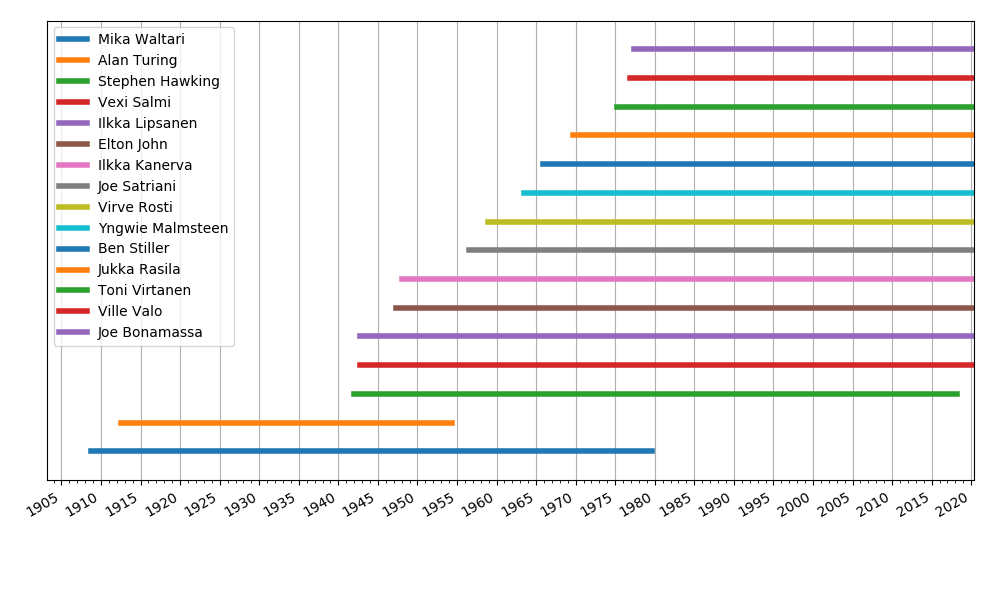
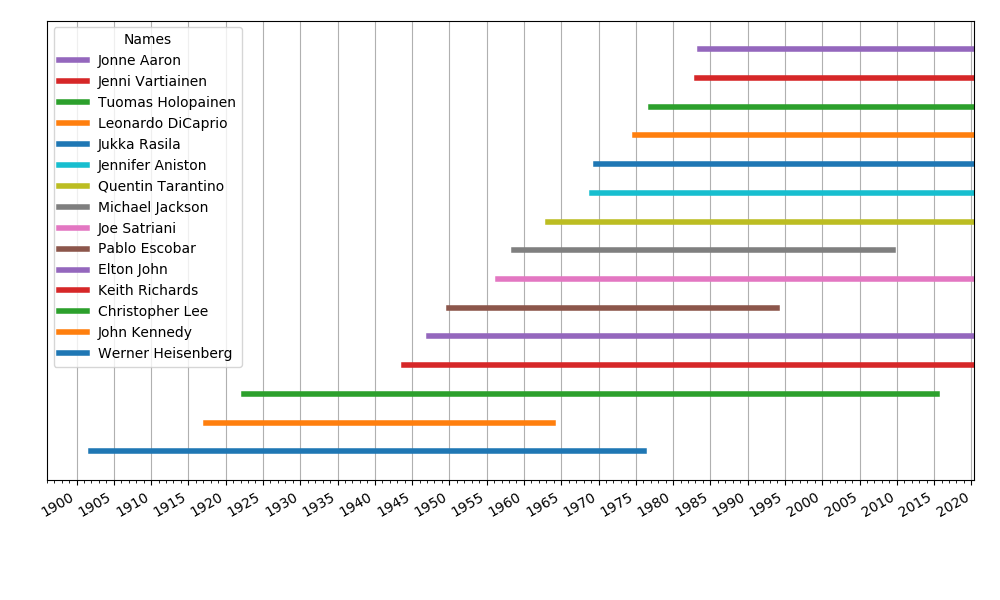
better legend

diff --git a/timeline.py b/timeline.py
@@ -1,5 +1,4 @@
 # -*- coding: utf-8 -*-
-
 """
 Created on 1 Jul 2019
 
@@ -25,7 +24,7 @@ import datetime
 from random import sample
 
 db_loc = './data/wiki.db'
-years = mdates.YearLocator(5)
+years = mdates.YearLocator(10)
 years_minor = mdates.YearLocator(1)
 
 def store(name, born=None, died=None, source=None):
@@ -72,7 +71,7 @@ def store_list(source):
         print("--------------")
 
 def days_between(d1, d2):
-    """ Count days between two date objects """
+    """ Count days between two date objects. Returns int """
     return abs((d2 - d1).days)
 
 def dict_factory(cursor, row):
@@ -115,11 +114,17 @@ def dates(html):
     bsObj = BeautifulSoup(html, 'lxml')
     infobox = bsObj.find("table", {"class": "infobox"})
     if infobox is not None:
-        for date in re.findall('[0-9]{1,2}\.\ [A-Za-z].*\ [0-9]{4}', infobox.get_text().split('Syntynyt')[1]):
+        print('dates: infobox found')
+        # Splits result at a keyword
+        spot = infobox.get_text().split('Syntynyt')[1]
+        for date in re.findall('[0-9]{1,2}\.\ [äöÄÖA-Za-z]{3,12}\ [0-9]{4}', spot):
+            print('dates: "{}"'.format(date))
             newform = convertDate(date)
-            fix = datestr2numlist(newform)
-            new = d(fix[2],fix[1],fix[0])	
+            print('dates: newform = {}'.format(newform))
+            new = datetime.datetime.strptime(newform, '%d.%m.%Y').date()
             dates.append(new)
+            if len(dates) == 2:
+                break
         return dates
     else:
         print('dates: infobox not found')
@@ -130,14 +135,17 @@ def dates_backup(html):
     bsObj = BeautifulSoup(html, 'lxml')
     paragraph = bsObj.find("div", {"id": "mw-content-text"})
     if paragraph is not None:
-        for date in re.findall('[0-9]{1,2}\.\ [A-Za-z].*?\ [0-9]{4}', paragraph.get_text()):
+        for date in re.findall('[0-9]{1,2}\.\ [ÄÖäöA-Za-z].*?\ [0-9]{4}', paragraph.get_text()):
+            print('dates_backup: '.format(date))
             try:
                 newform = convertDate(date)
-                fix = datestr2numlist(newform)
-                new = d(fix[2],fix[1],fix[0])	
+                print('dates_backup: newform = {}'.format(newform))
+                new = datetime.datetime.strptime(newform, '%d.%m.%Y').date()
                 dates.append(new)
+                if len(dates) == 2:
+                    break
             except:
-                print("Kelvoton pvm...")
+                print("dates_backup: datetime format error")
         return dates
     if dates is not None:
         return dates
@@ -145,9 +153,9 @@ def dates_backup(html):
         print("dates_backup: no luck")
 
 def print_by_age():
-    get = """
-    SELECT * FROM people
-    """
+    """ Print people on command line sorted by total age """
+
+    get = "SELECT * FROM people"
     try:
         con = sqlite3.connect(db_loc)
         con.row_factory = dict_factory
@@ -212,14 +220,6 @@ def convertDate(date):
     newdate = re.sub('\ ', '', newdate)
     return newdate
 
-def datestr2numlist(date):
-    """ Takes a date in string format and separated them to int list """
-    newdate = date.split('.')
-    intlist = []
-    for i in newdate:
-        intlist.append(int(i))
-    return intlist
-
 def plot_persons(amount):
     """ 
     Plots lifetime timelines from database to a matlib plot.
@@ -229,7 +229,8 @@ def plot_persons(amount):
         con = sqlite3.connect(db_loc)
         con.row_factory = dict_factory
         cur = con.cursor()
-        cur.execute("SELECT fname, lname, bday, dday FROM people WHERE bday LIKE \'19%\'")
+        #cur.execute("SELECT fname, lname, bday, dday FROM people WHERE bday LIKE \'19%\'")
+        cur.execute("SELECT fname, lname, bday, dday FROM people")
     except Error as e:
         print("plot_persons: ", e)
 
@@ -255,9 +256,14 @@ def plot_persons(amount):
     ax.xaxis.set_minor_locator(years_minor)
     fig.autofmt_xdate()
     plt.gca().axes.get_yaxis().set_visible(False)
-    #plt.tight_layout(pad=0.5, h_pad=0.5, w_pad=0.5)
+    #plt.tight_layout(pad=0.05, h_pad=0.2, w_pad=0.2)
     plt.grid(True)
-    plt.savefig('./images/timeline_01.png', dpi=100)
+
+    legend_col = int(len(people)/30)+1
+    handles, labels = ax.get_legend_handles_labels()
+    ax.legend(handles[::-1], labels[::-1], title='Names', loc='upper left', fontsize='x-small', shadow=True, ncol=legend_col)
+    plt.savefig('./images/timeline_02.png', dpi=100)
+    plt.show()
 
 def add_dates(input_dict):
     """ Change dict string dates to datetime objects """
@@ -277,9 +283,9 @@ def user_input():
     print("Input people to database:")
     while person is not 'quit':
         person = input('Name: ')
-        if person == 'quit':   
+        if person == 'quit' or person == 'q':   
              break
-        elif person == 'print':
+        elif person == 'print' or person == 'p':
             count = input('How many:')
             plot_persons(int(count))
             continue

diff --git a/README.md b/README.md
@@ -12,6 +12,9 @@ Plotting is done bases on sql quaries.
 
 * Manual input
 
+---
+
 ## Images
 
 ![timeline1](./images/timeline_01.png)
+![timeline1](./images/timeline_02.png)
